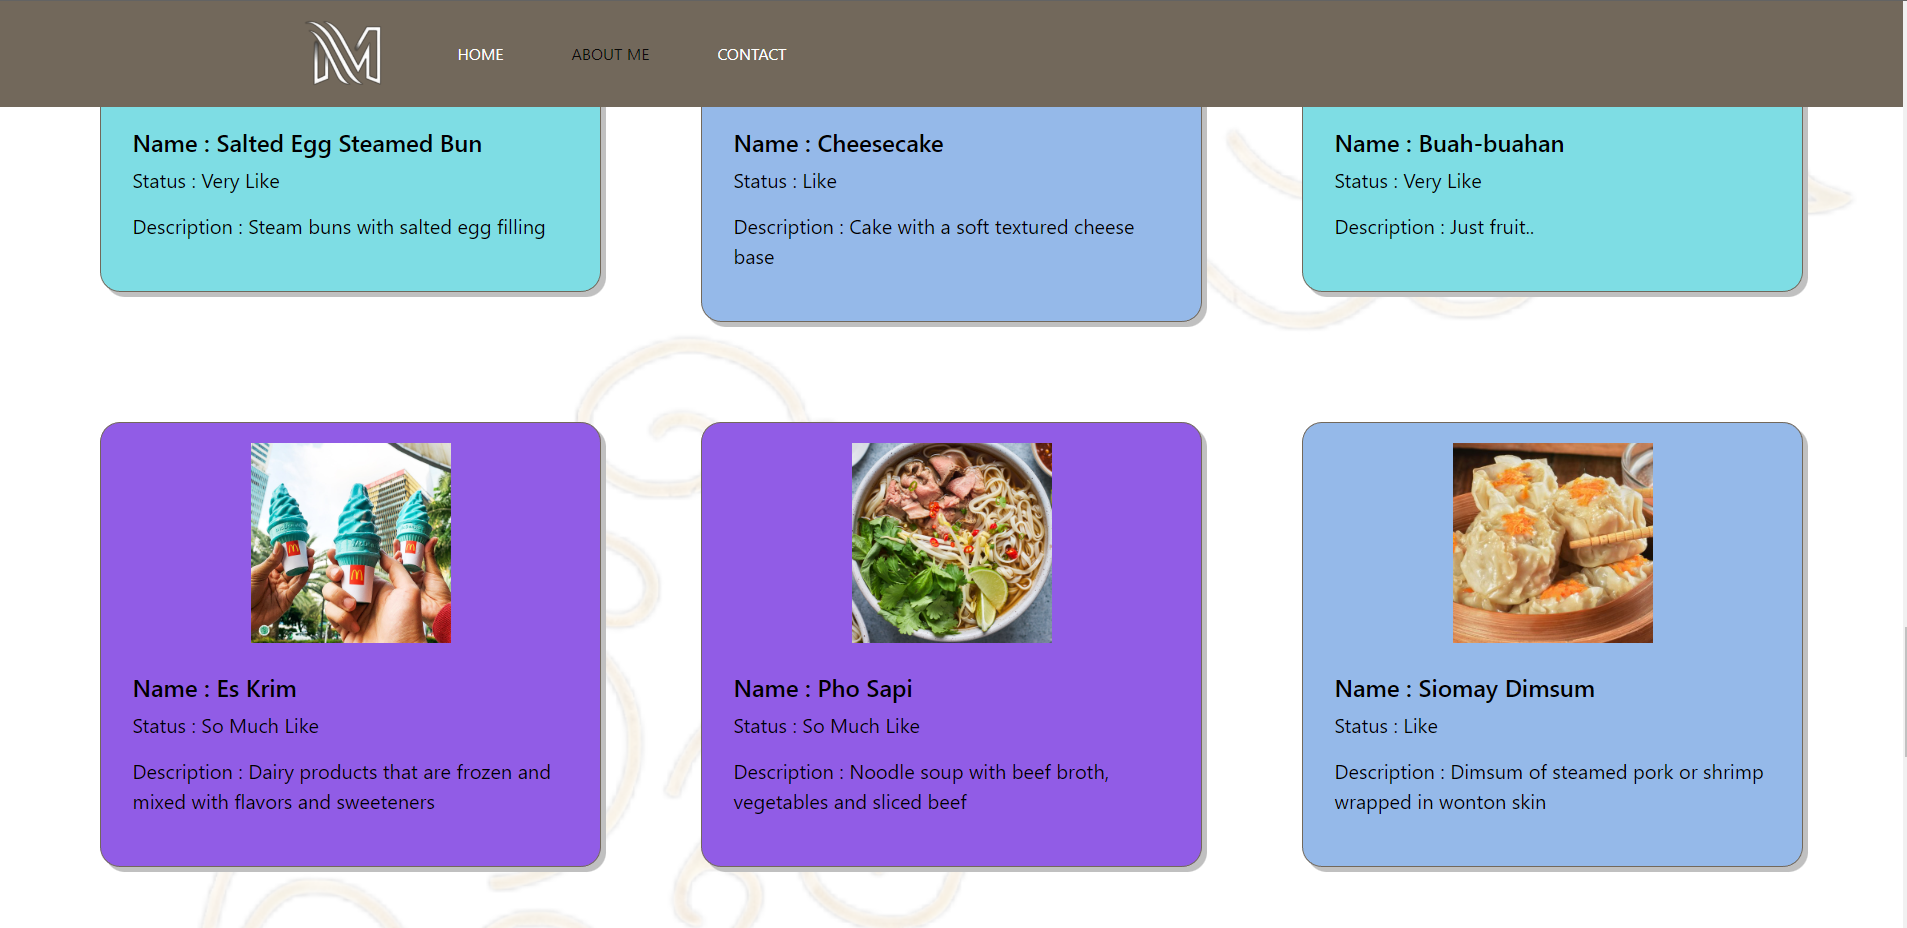
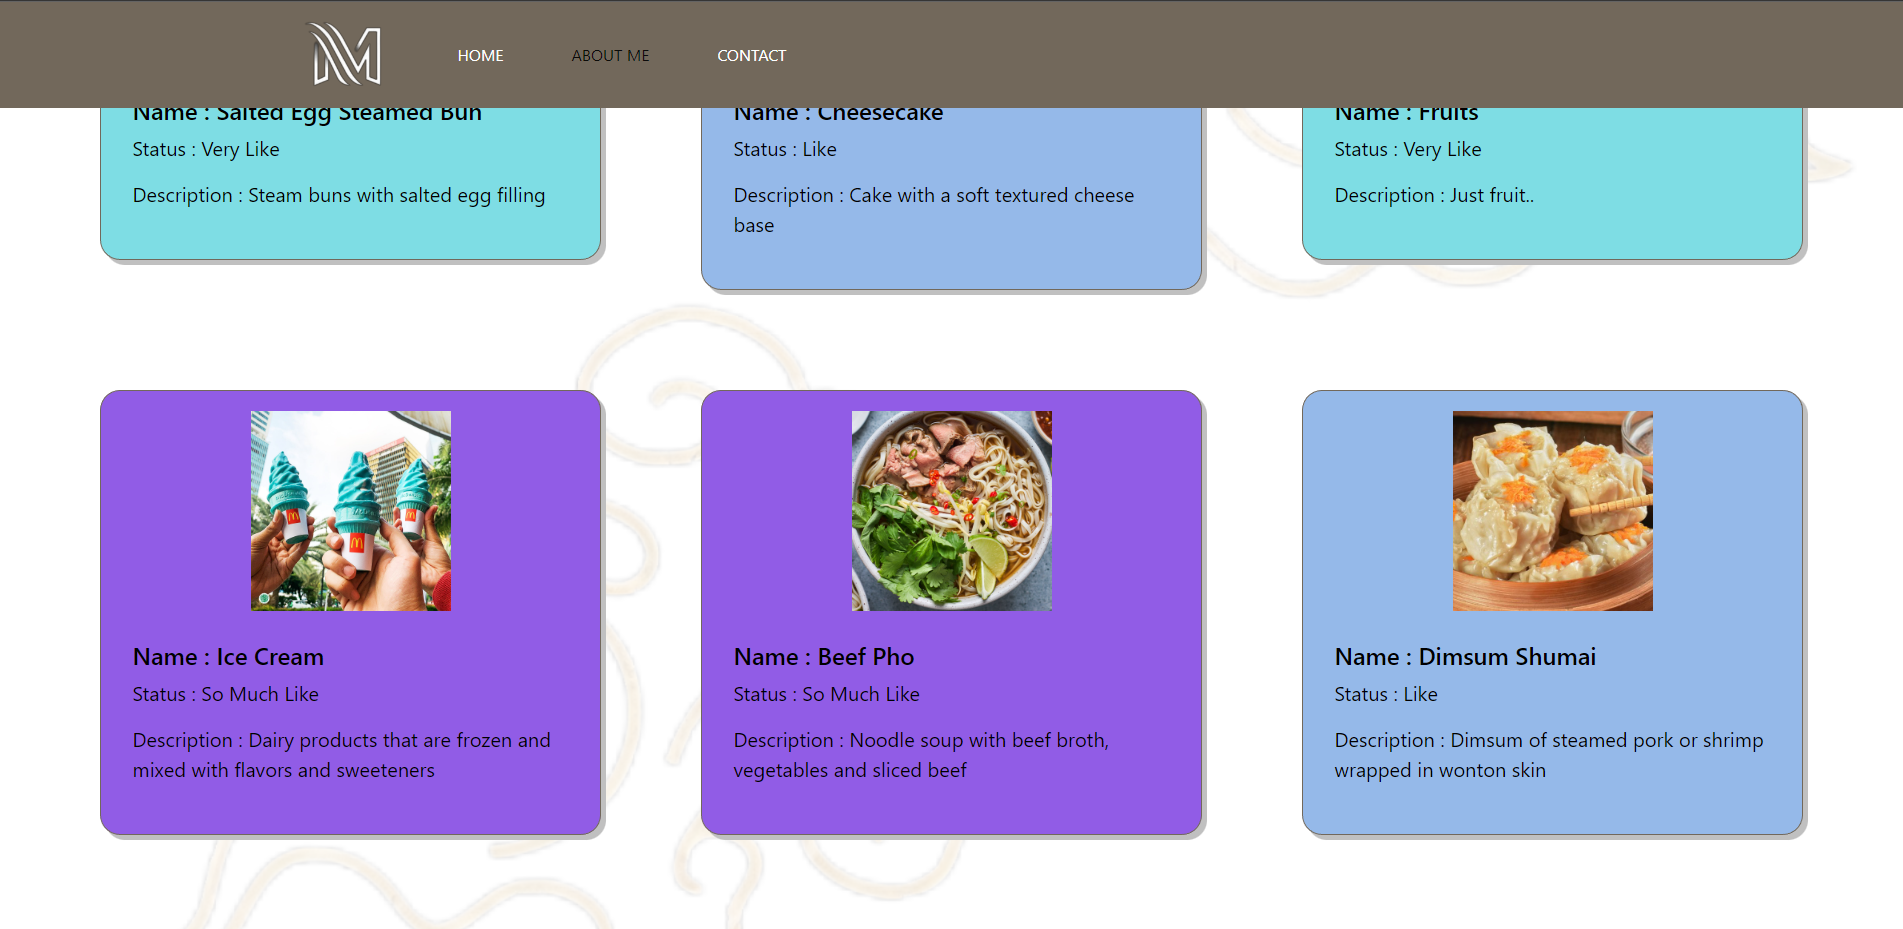
ganti bahasa

diff --git a/app/Http/Controllers/CardController.php b/app/Http/Controllers/CardController.php
@@ -10,10 +10,10 @@ class CardController extends Controller
         $itemInfo = [
             ['image' => 'bakpao.jpg', 'name' => 'Salted Egg Steamed Bun', 'desc' => 'Steam buns with salted egg filling', 'status' => 'Very Like', 'rating' => '8'],
             ['image' => 'cheesecake.jpg', 'name' => 'Cheesecake', 'desc' => 'Cake with a soft textured cheese base', 'status' => 'Like', 'rating' => '7.8'],
-            ['image' => 'fruit.jpg', 'name' => 'Buah-buahan', 'desc' => 'Just fruit..', 'status' => 'Very Like', 'rating' => '8.9'],
-            ['image' => 'ice cream.jpg', 'name' => 'Es Krim', 'desc' => 'Dairy products that are frozen and mixed with flavors and sweeteners', 'status' => 'So Much Like', 'rating' => '9.5'],
-            ['image' => 'pho.jpg', 'name' => 'Pho Sapi', 'desc' => 'Noodle soup with beef broth, vegetables and sliced beef', 'status' => 'So Much Like', 'rating' => '9.8'],
-            ['image' => 'siomay.jpg', 'name' => 'Siomay Dimsum', 'desc' => 'Dimsum of steamed pork or shrimp wrapped in wonton skin', 'status' => 'Like', 'rating' => '7']
+            ['image' => 'fruit.jpg', 'name' => 'Fruits', 'desc' => 'Just fruit..', 'status' => 'Very Like', 'rating' => '8.9'],
+            ['image' => 'ice cream.jpg', 'name' => 'Ice Cream', 'desc' => 'Dairy products that are frozen and mixed with flavors and sweeteners', 'status' => 'So Much Like', 'rating' => '9.5'],
+            ['image' => 'pho.jpg', 'name' => 'Beef Pho', 'desc' => 'Noodle soup with beef broth, vegetables and sliced beef', 'status' => 'So Much Like', 'rating' => '9.8'],
+            ['image' => 'siomay.jpg', 'name' => 'Dimsum Shumai', 'desc' => 'Dimsum of steamed pork or shrimp wrapped in wonton skin', 'status' => 'Like', 'rating' => '7']
         ];
         return view('home', compact('itemInfo'));
     }
@@ -22,10 +22,10 @@ class CardController extends Controller
         $itemInfo = [
             ['image' => 'bakpao.jpg', 'name' => 'Salted Egg Steamed Bun', 'desc' => 'Steam buns with salted egg filling', 'status' => 'Very Like', 'rating' => '8'],
             ['image' => 'cheesecake.jpg', 'name' => 'Cheesecake', 'desc' => 'Cake with a soft textured cheese base', 'status' => 'Like', 'rating' => '7.8'],
-            ['image' => 'fruit.jpg', 'name' => 'Buah-buahan', 'desc' => 'Just fruit..', 'status' => 'Very Like', 'rating' => '8.9'],
-            ['image' => 'ice cream.jpg', 'name' => 'Es Krim', 'desc' => 'Dairy products that are frozen and mixed with flavors and sweeteners', 'status' => 'So Much Like', 'rating' => '9.5'],
-            ['image' => 'pho.jpg', 'name' => 'Pho Sapi', 'desc' => 'Noodle soup with beef broth, vegetables and sliced beef', 'status' => 'So Much Like', 'rating' => '9.8'],
-            ['image' => 'siomay.jpg', 'name' => 'Siomay Dimsum', 'desc' => 'Dimsum of steamed pork or shrimp wrapped in wonton skin', 'status' => 'Like', 'rating' => '7']
+            ['image' => 'fruit.jpg', 'name' => 'Fruits', 'desc' => 'Just fruit..', 'status' => 'Very Like', 'rating' => '8.9'],
+            ['image' => 'ice cream.jpg', 'name' => 'Ice Cream', 'desc' => 'Dairy products that are frozen and mixed with flavors and sweeteners', 'status' => 'So Much Like', 'rating' => '9.5'],
+            ['image' => 'pho.jpg', 'name' => 'Beef Pho', 'desc' => 'Noodle soup with beef broth, vegetables and sliced beef', 'status' => 'So Much Like', 'rating' => '9.8'],
+            ['image' => 'siomay.jpg', 'name' => 'Dimsum Shumai', 'desc' => 'Dimsum of steamed pork or shrimp wrapped in wonton skin', 'status' => 'Like', 'rating' => '7']
         ];
 
         $chosen = [];
